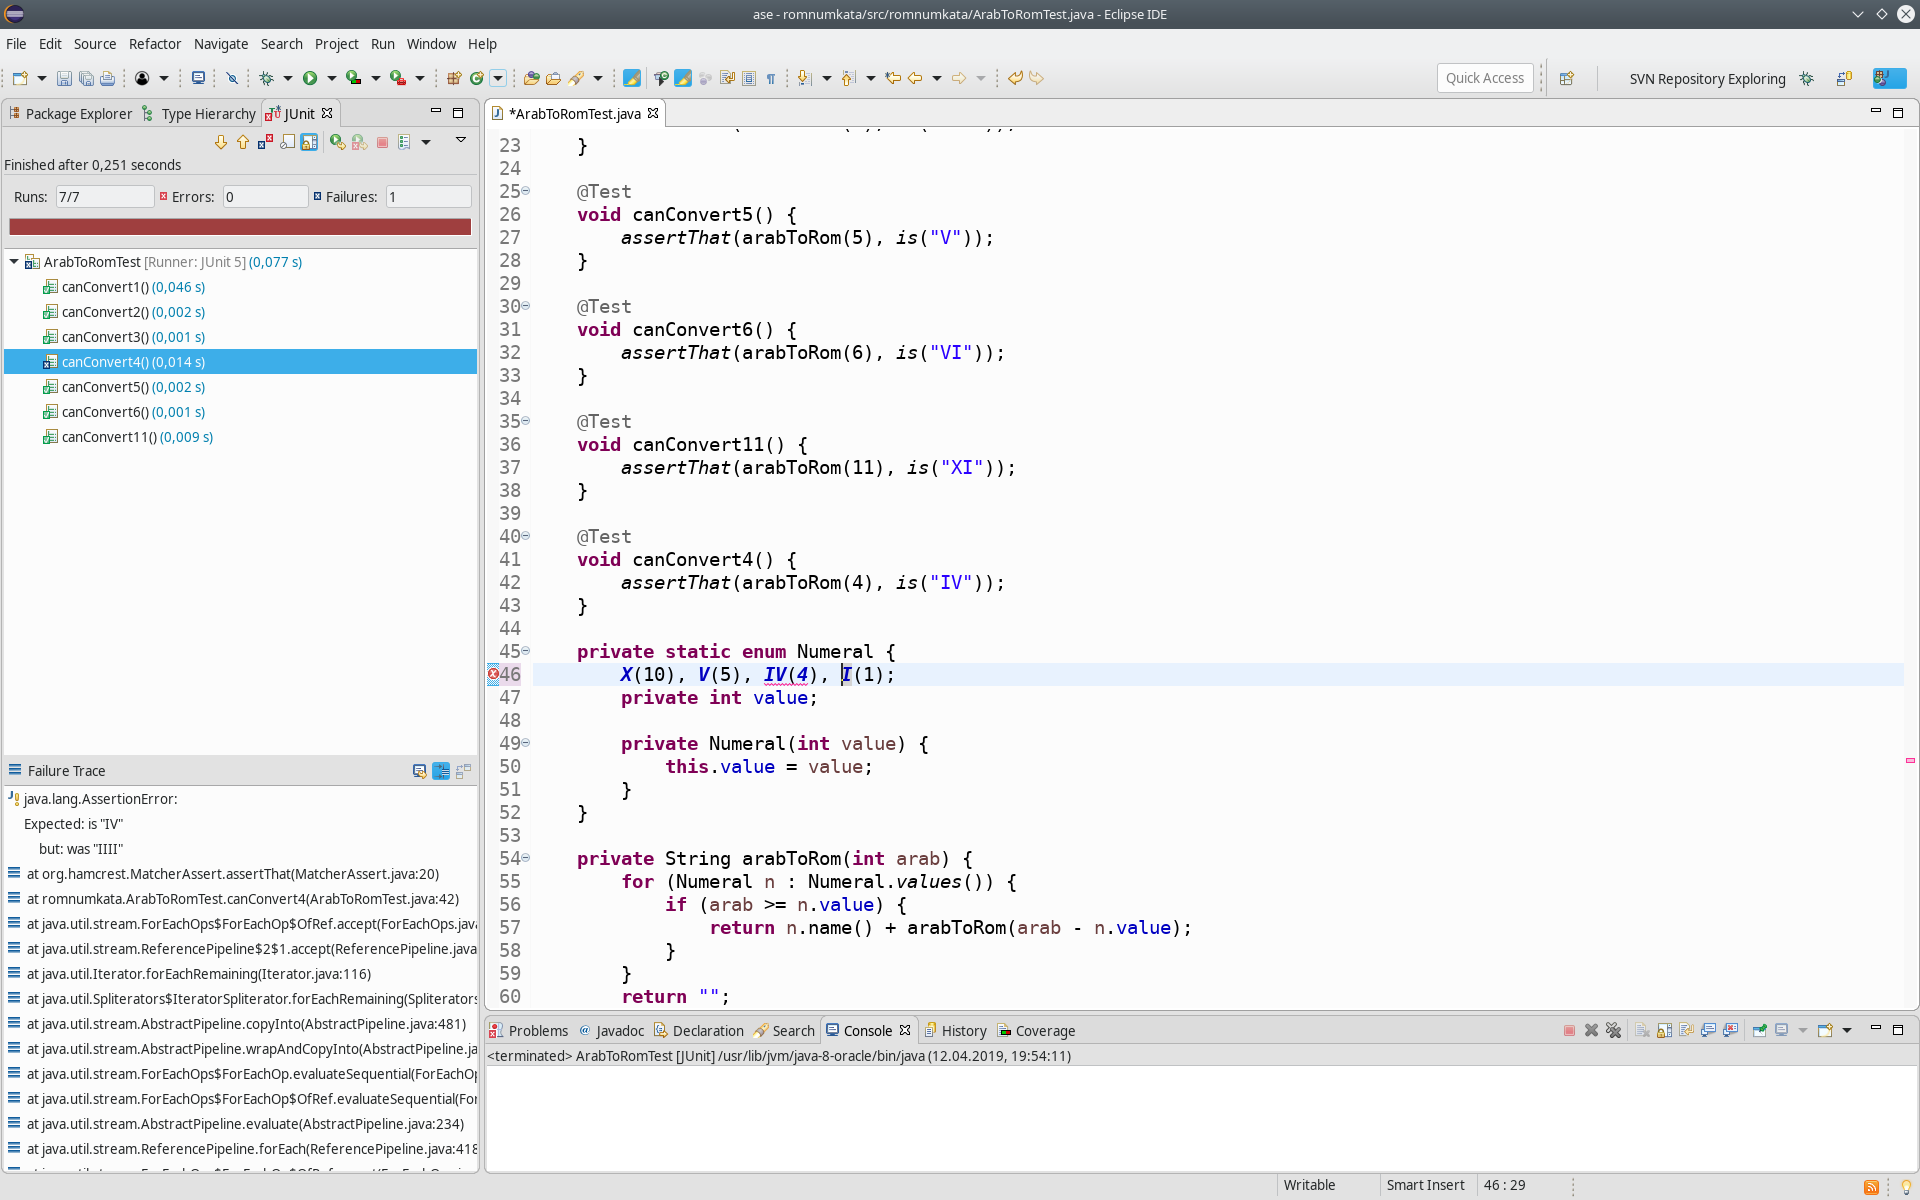
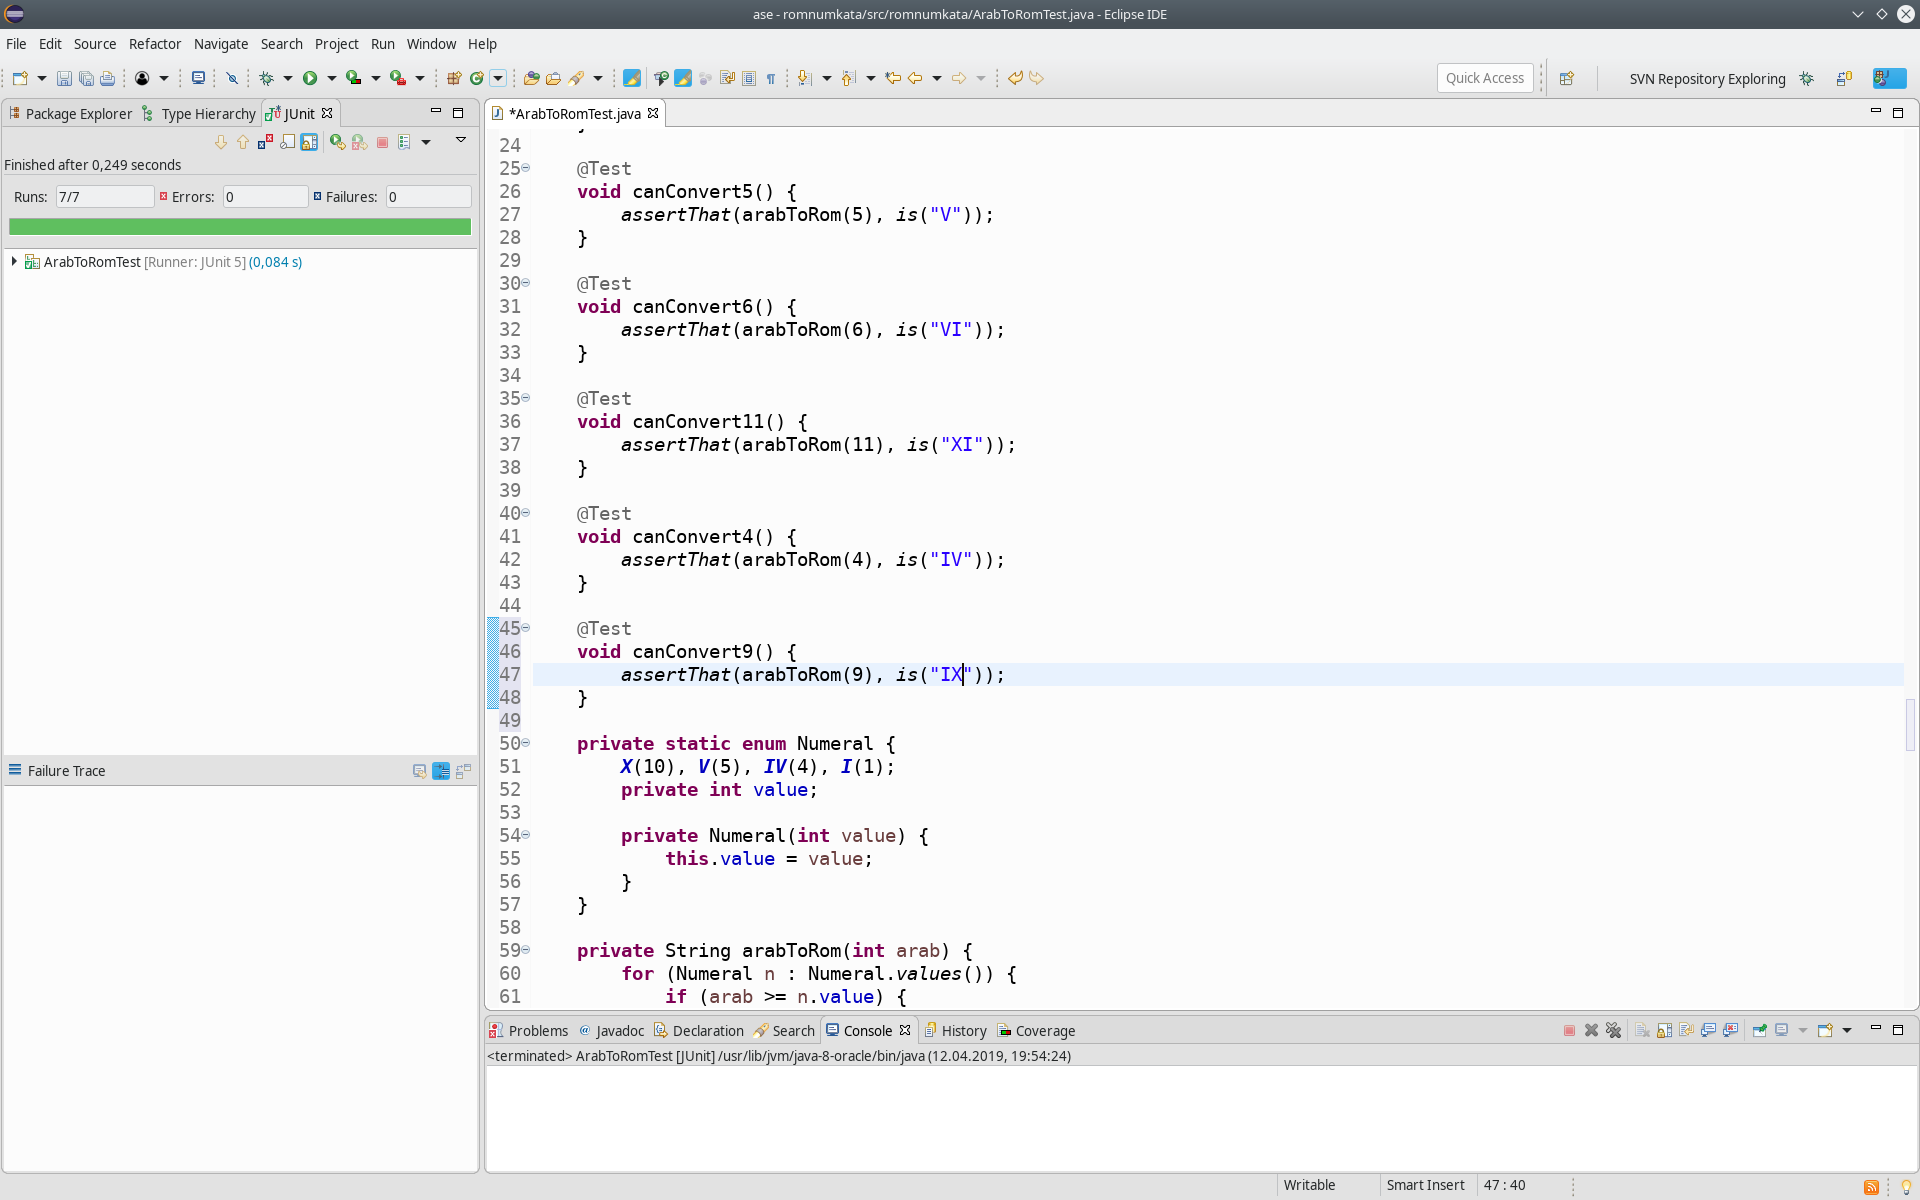
autocommit on change

diff --git a/src/romnumkata/ArabToRomTest.java b/src/romnumkata/ArabToRomTest.java
@@ -42,6 +42,11 @@ public class ArabToRomTest {
 		assertThat(arabToRom(4), is("IV"));
 	}
 
+	@Test
+	void canConvert9() {
+		assertThat(arabToRom(9), is("IX"));
+	}
+
 	private static enum Numeral {
 		X(10), V(5), IV(4), I(1);
 		private int value;
